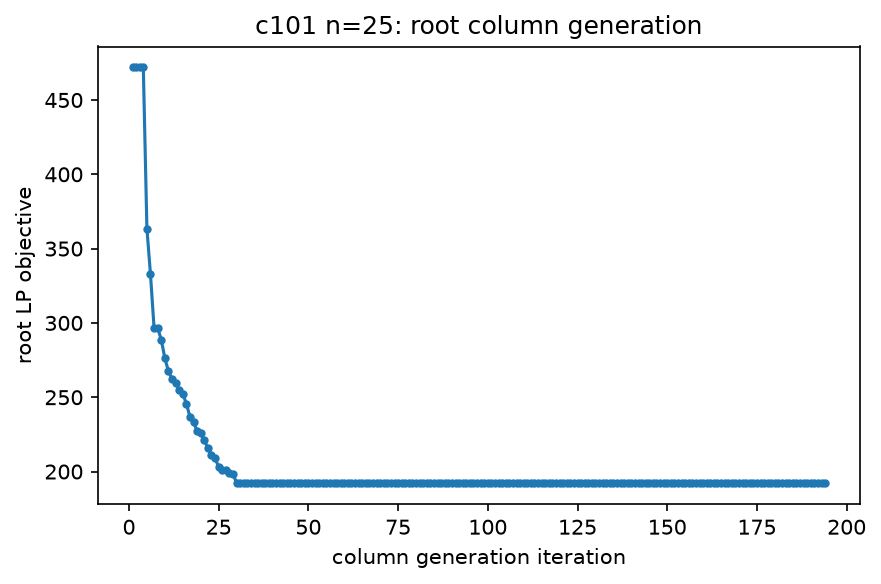
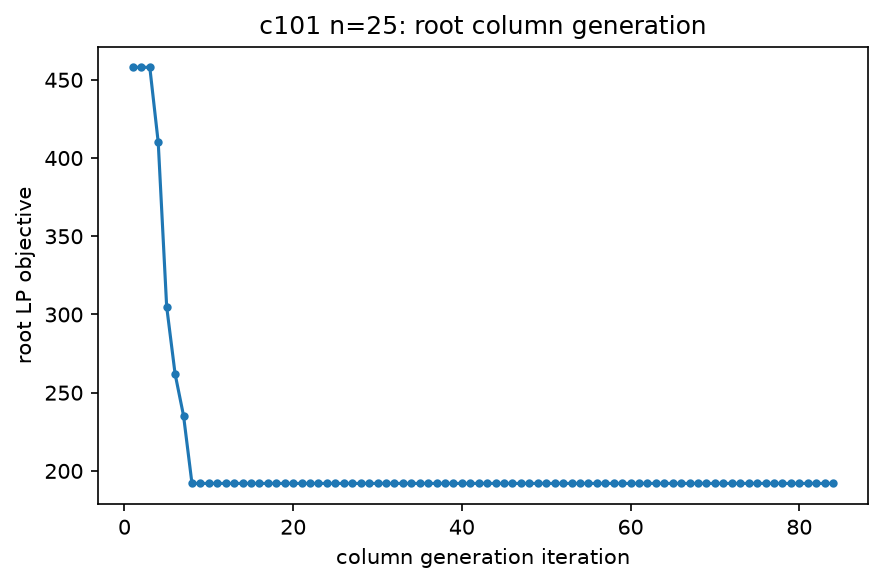
Regenerate distance-objective results with service times
Reran the distance benchmark (--time-limit 60) and the per-run result
files on the corrected model. All 12 instances are certified optimal.
rc101/25 needed a rerun with --time-limit 900 (it stopped at 571 with
lower bound 432 after 60 s); the CSV row is from that rerun.

Changes against the old, service-free numbers include r101/10 (253 with
3 vehicles -> 269 with 4), r101/25 (580 with 6 -> 616 with 8) and
rc101/25 (356 with 3 -> 461 with 4). r101 with 50 customers is now 1031
with 12 vehicles.

REPORT.md Section 9 opens with a correction note, and states that the
time limit is only checked between nodes: r201/25 took 908.9 s under a
60 s limit because of slow pricing in nodes that rely on artificial
variables. The lexicographic table is updated in a follow-up commit.

diff --git a/docs/REPORT.md b/docs/REPORT.md
@@ -223,38 +223,54 @@ Three independent checks, beyond ordinary unit tests of individual functions:
    `stabilization_alpha=0` and `0.7` reach the identical certified optimum,
    confirming dual smoothing (Section 6) is a pure acceleration.
 
-Run `pytest` to reproduce all three (34 tests, ~20 seconds).
+Run `pytest` to reproduce all three (37 tests, ~20 seconds).
 
 ## 9. Computational results
 
+**Correction (service times).** Earlier versions of this report came from
+a model that ignored the Solomon service times (Section 1), inherited from
+the upstream code. Those numbers were optima of an easier problem than the
+VRPTW, and some of their routes miss a time window once service is counted
+(on `r101`/25, 3 of the 6 reported routes). Every number below comes from
+the corrected model.
+
 Generated with `python -m vrptw_cg.benchmark --instances c101 c201 r101 r201
 rc101 rc201 --customer-counts 10 25 --time-limit 60`, HiGHS backend, default
-`k=8` ng-route neighborhoods, on the machine used for development (no
-special hardware). Full machine-readable output: `results/benchmark.csv`.
+`k=8` ng-route neighborhoods, on a 4-core cloud container. `rc101`/25 did not
+close its gap within 60 seconds (incumbent 571.00, lower bound 432.00), so
+its row comes from a rerun of that one instance with `--time-limit 900`.
+Full machine-readable output: `results/benchmark.csv`.
 
 | instance | customers | status | cost | lower bound | gap | vehicles | nodes explored | columns generated | time (s) |
 |---|---|---|---|---|---|---|---|---|---|
-| c101 | 10 | optimal | 59.00 | 59.00 | 0.000% | 1 | 1 | 149 | 0.2 |
-| c101 | 25 | optimal | 192.00 | 192.00 | 0.000% | 3 | 1 | 2144 | 26.3 |
-| c201 | 10 | optimal | 153.00 | 153.00 | 0.000% | 2 | 1 | 113 | 0.2 |
-| c201 | 25 | optimal | 217.00 | 217.00 | 0.000% | 2 | 1 | 2586 | 24.4 |
-| r101 | 10 | optimal | 253.00 | 253.00 | 0.000% | 3 | 1 | 41 | 0.0 |
-| r101 | 25 | optimal | 580.00 | 580.00 | 0.000% | 6 | 5 | 284 | 0.9 |
-| r201 | 10 | optimal | 253.00 | 253.00 | 0.000% | 2 | 7 | 267 | 0.6 |
-| r201 | 25 | optimal | 462.00 | 462.00 | 0.000% | 4 | 3 | 931 | 34.0 |
-| rc101 | 10 | optimal | 184.00 | 184.00 | 0.000% | 2 | 1 | 148 | 0.4 |
-| rc101 | 25 | optimal | 356.00 | 356.00 | 0.000% | 3 | 1 | 763 | 4.4 |
-| rc201 | 10 | optimal | 184.00 | 184.00 | 0.000% | 2 | 1 | 135 | 0.3 |
-| rc201 | 25 | optimal | 356.00 | 356.00 | 0.000% | 3 | 1 | 1329 | 24.8 |
+| c101 | 10 | optimal | 59.00 | 59.00 | 0.000% | 1 | 1 | 84 | 0.3 |
+| c101 | 25 | optimal | 192.00 | 192.00 | 0.000% | 3 | 1 | 541 | 5.6 |
+| c201 | 10 | optimal | 153.00 | 153.00 | 0.000% | 2 | 1 | 73 | 0.4 |
+| c201 | 25 | optimal | 217.00 | 217.00 | 0.000% | 2 | 1 | 1018 | 8.2 |
+| r101 | 10 | optimal | 269.00 | 269.00 | 0.000% | 4 | 11 | 50 | 0.9 |
+| r101 | 25 | optimal | 616.00 | 616.00 | 0.000% | 8 | 1 | 111 | 0.4 |
+| r201 | 10 | optimal | 253.00 | 253.00 | 0.000% | 2 | 7 | 212 | 1.9 |
+| r201 | 25 | optimal | 465.00 | 465.00 | 0.000% | 4 | 3 | 964 | 908.9 |
+| rc101 | 10 | optimal | 187.00 | 187.00 | 0.000% | 2 | 1 | 88 | 0.5 |
+| rc101 | 25 | optimal | 461.00 | 461.00 | 0.000% | 4 | 221 | 1017 | 102.1 |
+| rc201 | 10 | optimal | 184.00 | 184.00 | 0.000% | 2 | 1 | 104 | 0.6 |
+| rc201 | 25 | optimal | 358.00 | 358.00 | 0.000% | 3 | 1 | 709 | 18.3 |
 
-Every instance across all three Solomon classes (clustered `c`, random `r`,
-mixed `rc`, both narrow "1" and wide "2" time-window variants) is solved to a
-*certified* optimum within the 60-second budget. Most root LP relaxations are
-already integral (`nodes_explored = 1`); `r201/25` and `r101/25` are the only
-cases here that actually require branching, confirming the branch-and-price
-layer is exercised and correct, not just idle. A separate run on `r101` with
-50 customers also reached a certified optimum (cost 935.00) in 2.0 seconds.
-Full raw output: `results/benchmark.csv`.
+Every instance is solved to a *certified* optimum. Most root LP relaxations
+are already integral (`nodes_explored = 1`); `r101`/10, `r201`/10, `r201`/25
+and `rc101`/25 need branching, and `rc101`/25 needs 221 nodes.
+
+The time limit is checked only between branch-and-price nodes, so a single
+slow node can overrun it: `r201`/25 finished at 908.9 seconds under a
+60-second limit. Most of that time is spent in nodes where branching makes
+the restricted master infeasible without its artificial variables. Their
+large penalty costs produce very large duals, and every pricing call then
+has to extend tens of thousands of labels. Enforcing the limit inside
+column generation would need care, because a node whose column generation
+stops early has no valid lower bound.
+
+A separate run on `r101` with 50 customers also reached a certified optimum
+(cost 1031.00, 12 vehicles) in 2.5 seconds.
 
 `gap_percent` is `(cost - lower_bound) / cost`; `0.000%` means the branch-
 and-price tree was fully explored and the solution is a certified integer

diff --git a/README.md b/README.md
@@ -65,7 +65,7 @@ Status: optimal
 Best solution cost: 192.00
 Proven lower bound: 192.00 (gap 0.000%)
 Vehicles used: 3
-Time: 26.8s (limit 180s)
+Time: 6.3s (limit 180s per phase)
 ```
 
 The standard Solomon-benchmark objective (minimize the fleet size first,
@@ -81,7 +81,7 @@ Batch benchmark across the Solomon suite:
 python -m vrptw_cg.benchmark --instances c101 r101 rc101 --customer-counts 10 25
 ```
 
-Run the test suite (34 tests, ~20 seconds, including the end-to-end
+Run the test suite (37 tests, ~20 seconds, including the end-to-end
 brute-force validation):
 
 ```bash
